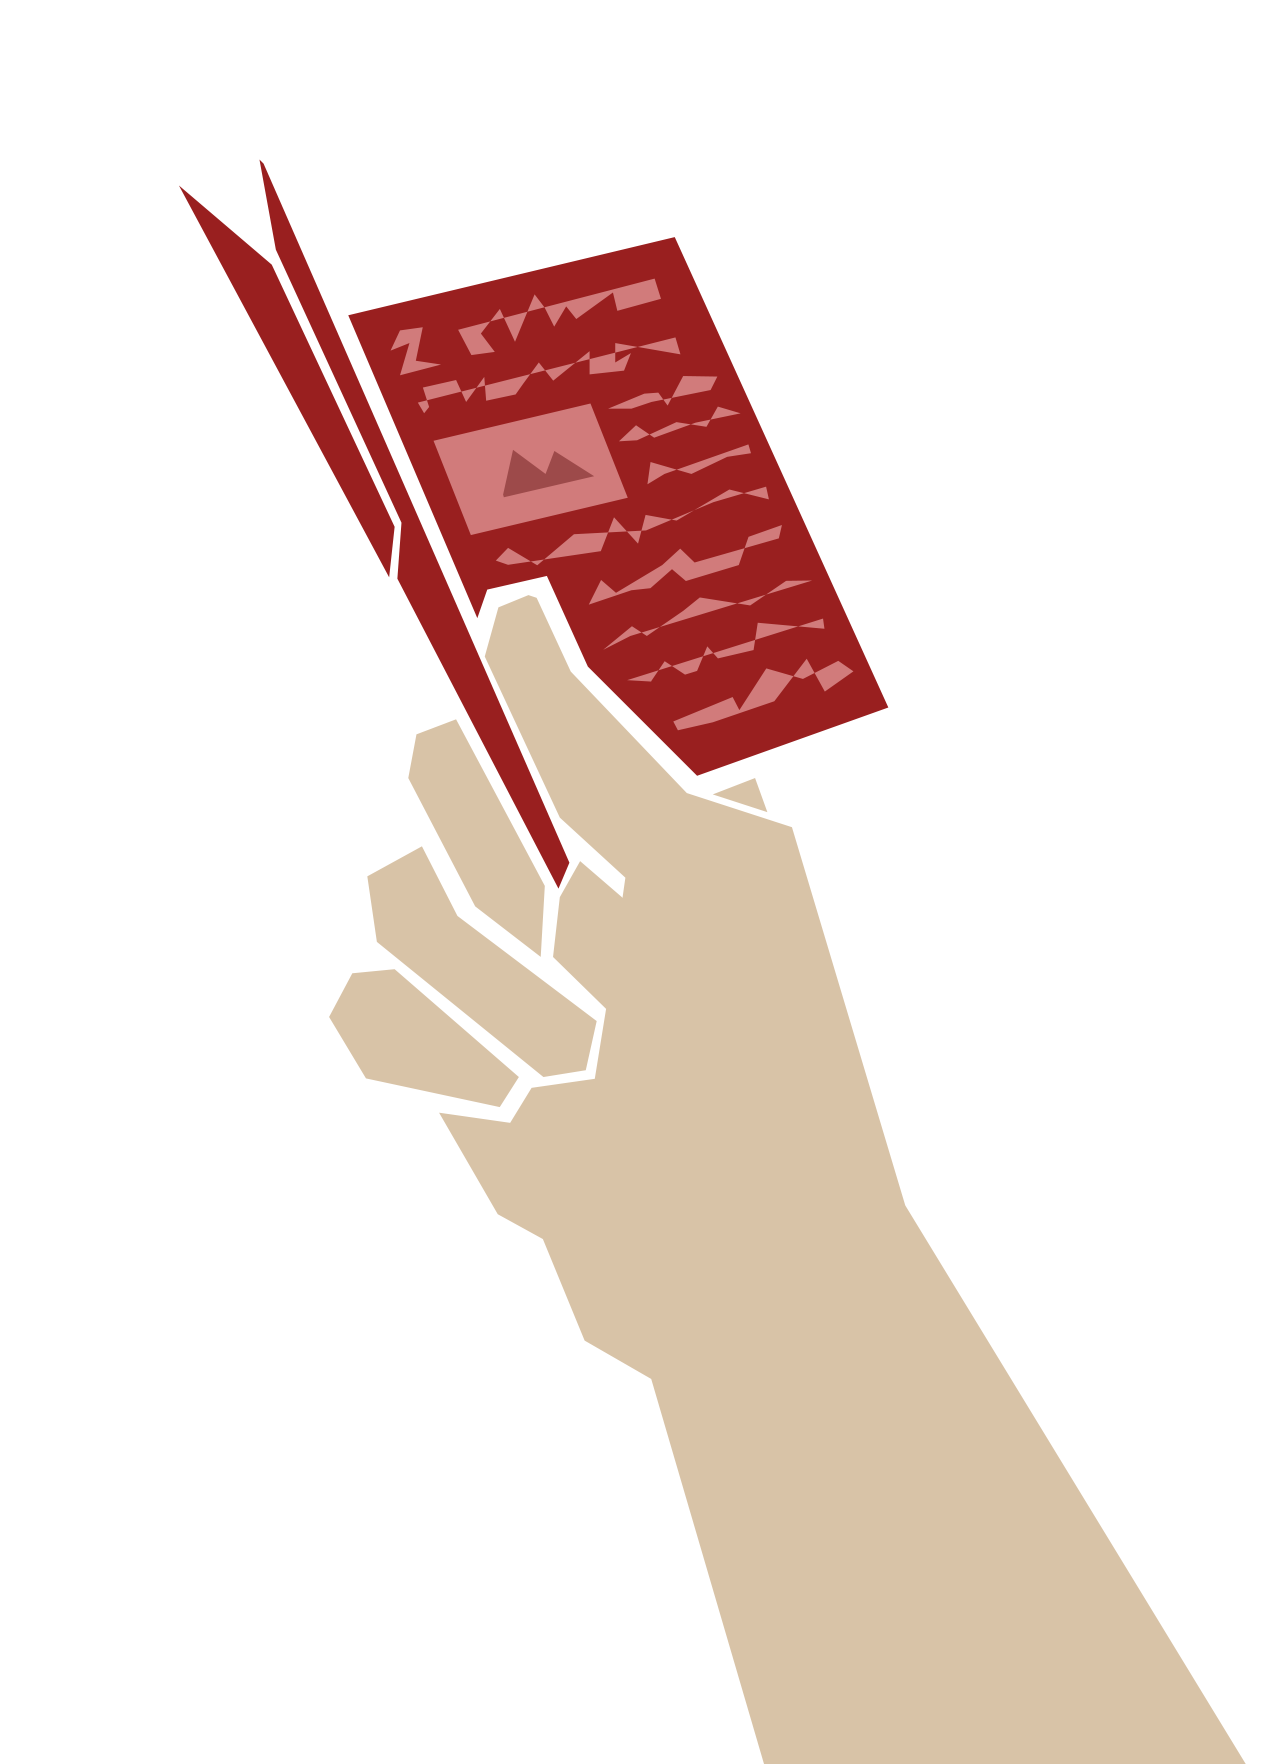
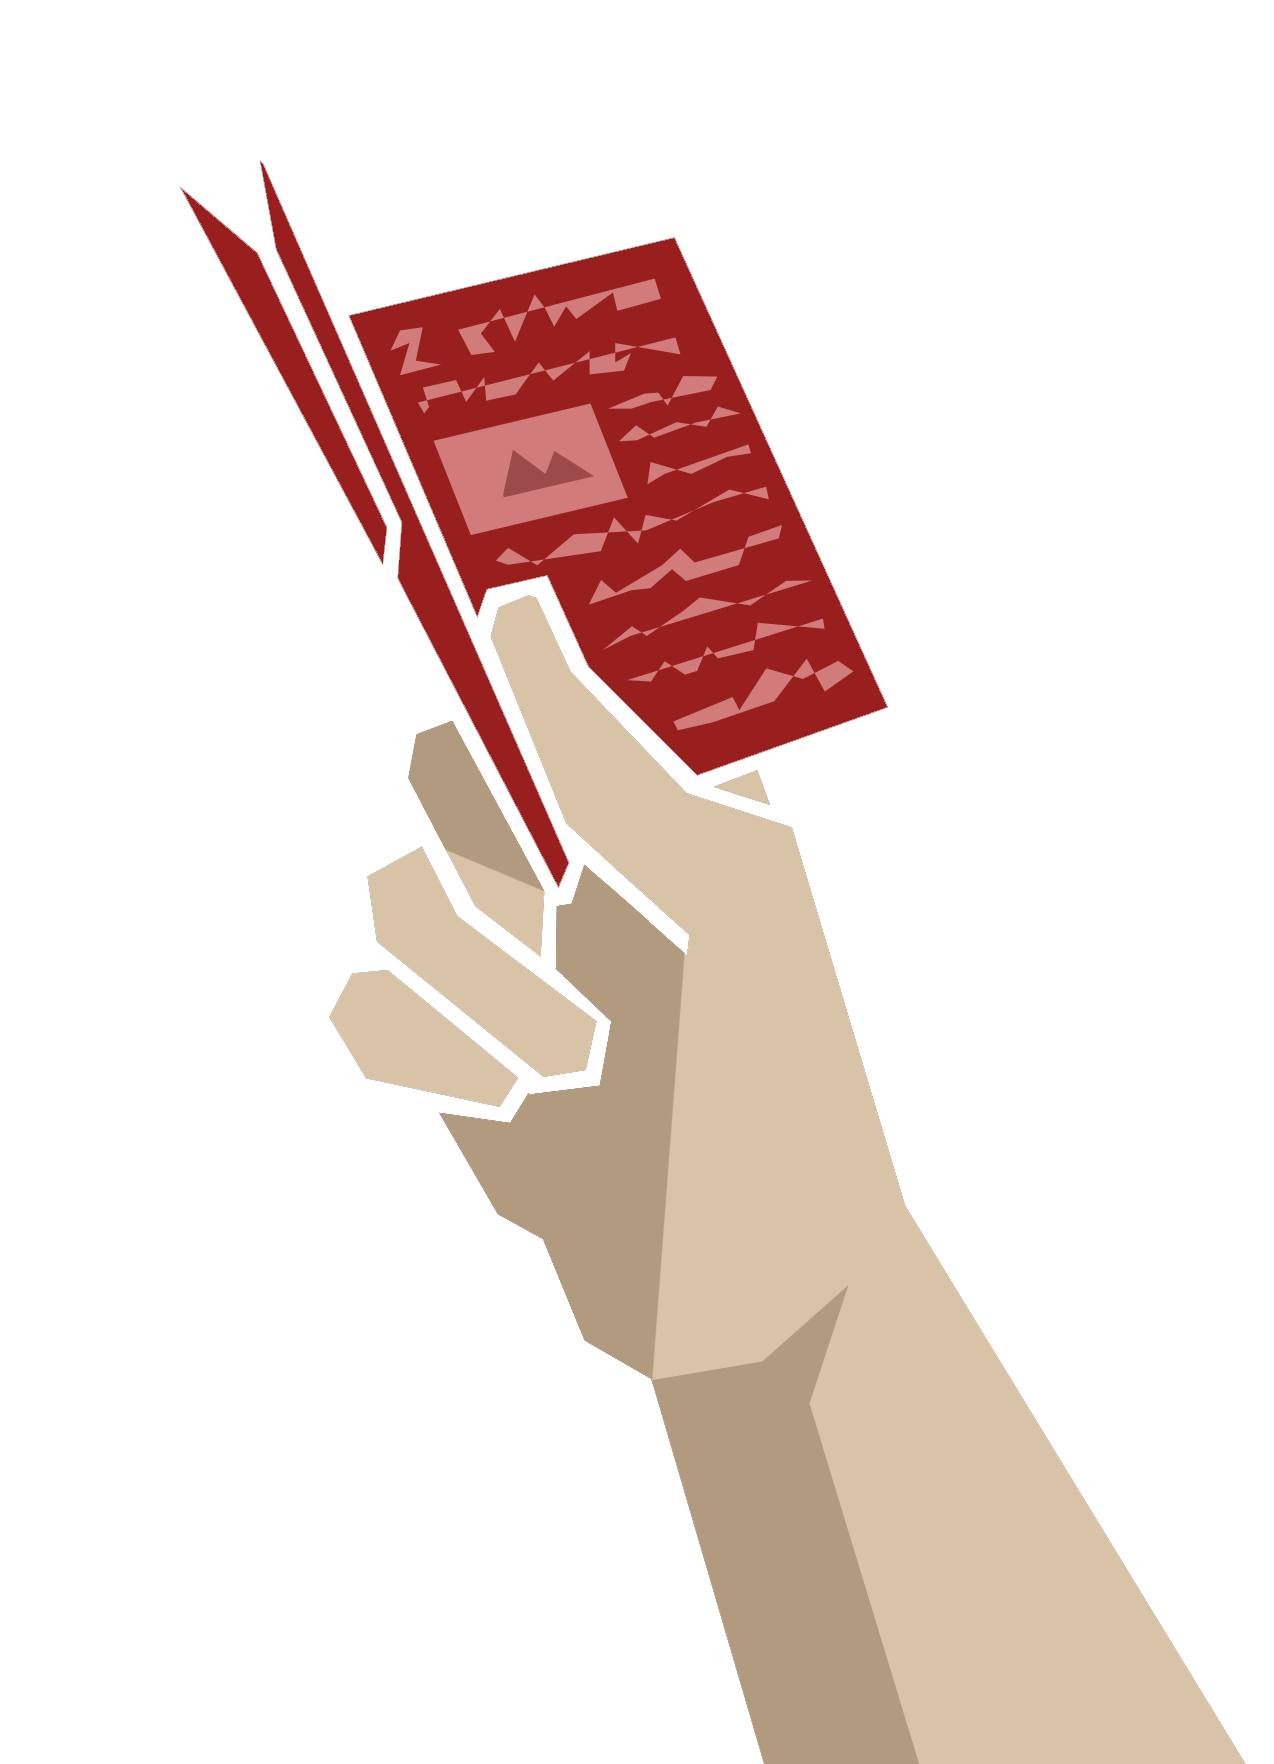
US - v8.3

diff --git a/src/styles/global.css b/src/styles/global.css
@@ -384,7 +384,7 @@ nav .nav-minor:hover { opacity: 1; }
 .search-all-results:hover, .search-all-results:focus-visible { background: #eee2d3; }
 
 /* La sezione Manifesti apre l'archivio completo; le pubblicazioni vicine hanno copertine interattive. */
-.manifesto-archive-link { position: relative; overflow: hidden; color: var(--paper-bright); text-decoration: none; transition: transform .22s ease, box-shadow .22s ease; }
+.manifesto-archive-link { position: relative; overflow: hidden; aspect-ratio: 2048 / 1486; min-height: 0; color: var(--paper-bright); text-decoration: none; background-color: var(--ink); background-image: linear-gradient(90deg, rgba(0,0,0,.62) 0%, rgba(0,0,0,.43) 43%, rgba(0,0,0,.12) 100%), url('/UnioneStampa/assets/sparviera-legge-prato.png'); background-size: cover; background-position: center; transition: transform .22s ease, box-shadow .22s ease; }
 .manifesto-archive-link::after { content: ""; position: absolute; inset: auto -12% -42% 35%; height: 75%; border: 1px solid rgba(255,250,243,.13); border-radius: 50%; transform: rotate(-16deg); pointer-events: none; }
 .manifesto-archive-link:hover { transform: translateY(-4px); box-shadow: 0 20px 42px rgba(133,27,27,.22); }
 .manifesto-archive-link h3 { font-size: clamp(48px, 5.5vw, 76px); }
@@ -463,7 +463,8 @@ nav .nav-minor:hover { opacity: 1; }
   .site-header nav .nav-social { margin-left: auto; }
   .site-header nav .nav-secondary { font-size: 11px; }
   .manifesto-section { padding-block: 70px; }
-  .manifesto-lead { min-height: 340px; padding: 28px; }
+  .manifesto-lead { min-height: 360px; padding: 28px; }
+  .manifesto-archive-link { aspect-ratio: auto; background-position: 42% center; }
   .manifesto-grid { gap: 16px; }
   .manifesto-side-card { min-height: 150px; padding: 18px; }
   .manifesto-side-cover strong { max-width: 100%; }

diff --git a/README.md b/README.md
@@ -1,6 +1,6 @@
 # L'Unione Stampa
 
-Sito editoriale statico Astro per GitHub Pages (versione 8.2), configurato per:
+Sito editoriale statico Astro per GitHub Pages (versione 8.3), configurato per:
 
 `https://unionestampa.github.io/UnioneStampa/`
 
@@ -97,3 +97,12 @@ La pagina della relazione si trova in `src/content/articoli/come-scrivere-il-fut
 - Il confronto editoriale usa `public/assets/logo-piuma-bianca.png` e non mostra più il badge VS o i tre riquadri sintetici sottostanti.
 - In “Luoghi di rilascio” è incorporata una mappa Google Maps solo come sfondo: l’iframe non riceve interazioni e l’avviso di funzionalità inattiva viene mostrato con hover/focus.
 - Dettagli in `CHANGELOG-v8.2.md`.
+
+
+## Aggiornamenti versione 8.3
+
+- Il riquadro principale “Manifesti” usa la nuova immagine della sparviera che legge sul prato, fornita per la homepage.
+- La sfumatura nera è più intensa a sinistra e si attenua verso destra per mantenere il testo leggibile lasciando visibile l’immagine.
+- Il riquadro mantiene il rapporto d’aspetto della nuova immagine sui grandi schermi; su telefono conserva spazio sufficiente per i testi.
+- “Guarda cosa succede” usa la nuova immagine della mano con La Piuma, sostituendo la precedente illustrazione senza altri cambiamenti alla sezione.
+- Dettagli in `CHANGELOG-v8.3.md`.

diff --git a/CHANGELOG-v8.3.md b/CHANGELOG-v8.3.md
@@ -1,0 +1,7 @@
+# Versione 8.3 — aggiornamenti grafici della homepage
+
+- Il riquadro principale della sezione “Manifesti” usa `public/assets/sparviera-legge-prato.png`, l’immagine fornita con la donna che legge sul prato.
+- La card segue il rapporto d’aspetto dell’immagine sui grandi schermi e usa una sfumatura nera leggera da sinistra verso destra, per tenere leggibile il testo senza nascondere la scena.
+- Su telefono il riquadro mantiene altezza sufficiente per leggere tutti i testi, con un ritaglio responsive dell’immagine.
+- In “Guarda cosa succede” è stata sostituita esclusivamente l’immagine `public/assets/mano-e-piuma.png` con la versione aggiornata caricata dall’utente.
+- Nessun altro cambiamento all’interazione o all’estetica delle sezioni.
